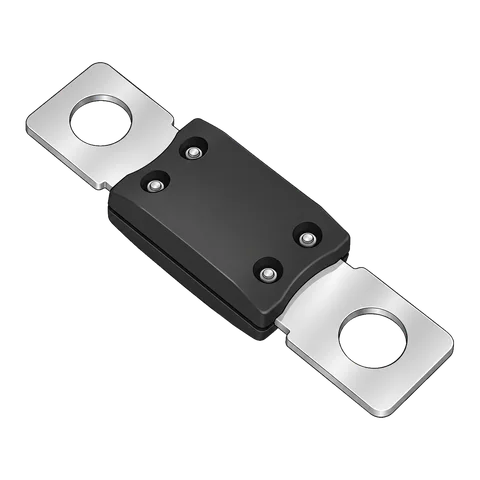
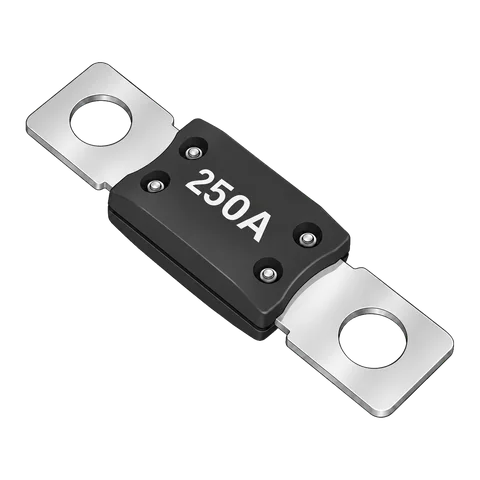
Einkaufsliste: Bild für Sicherung 250 A MEGA mit 250A-Aufdruck

diff --git a/einkaufsliste.html b/einkaufsliste.html
@@ -106,7 +106,7 @@
         <div class="wrap">
           <h2>Sicherungen &amp; Halter</h2><p class="gruppe-text">Jede Leitung braucht ihre passende Sicherung.</p>
           <div class="teile-grid">
-            <article class="teil" id="l3a2c4132"><div class="teil-bild"><img src="assets/teile/l3a2c4132.webp?v=7906ca96" alt="MIDI-Sicherungshalter 4-fach mit Sammelschiene (Symbolbild)" width="480" height="480" loading="lazy"><span>Symbolbild</span></div><h3>MIDI-Sicherungshalter 4-fach mit Sammelschiene</h3><a class="product-btn" href="/go/l3a2c4132/amazon" target="_blank" rel="sponsored noopener">Bei Amazon ansehen*</a></article><article class="teil" id="l375ffab0"><div class="teil-bild"><img src="assets/teile/l375ffab0.webp?v=a38f9c33" alt="Sicherung 20 A MIDI (Symbolbild)" width="480" height="480" loading="lazy"><span>Symbolbild</span></div><h3>Sicherung 20 A MIDI</h3><a class="product-btn" href="/go/l375ffab0/amazon" target="_blank" rel="sponsored noopener">Bei Amazon ansehen*</a></article><article class="teil" id="laf25c308"><div class="teil-bild"><img src="assets/teile/laf25c308.webp?v=ab091605" alt="Sicherung 30 A MIDI (Symbolbild)" width="480" height="480" loading="lazy"><span>Symbolbild</span></div><h3>Sicherung 30 A MIDI</h3><a class="product-btn" href="/go/laf25c308/amazon" target="_blank" rel="sponsored noopener">Bei Amazon ansehen*</a></article><article class="teil" id="lafc8c0a5"><div class="teil-bild"><img src="assets/teile/lafc8c0a5.webp?v=e2af2a5c" alt="Sicherung 60 A MIDI (Symbolbild)" width="480" height="480" loading="lazy"><span>Symbolbild</span></div><h3>Sicherung 60 A MIDI</h3><a class="product-btn" href="/go/lafc8c0a5/amazon" target="_blank" rel="sponsored noopener">Bei Amazon ansehen*</a></article><article class="teil" id="l2a4fa993"><div class="teil-bild"><img src="assets/teile/l2a4fa993.webp?v=d04e5171" alt="Sicherung 80 A MIDI (Symbolbild)" width="480" height="480" loading="lazy"><span>Symbolbild</span></div><h3>Sicherung 80 A MIDI</h3><a class="product-btn" href="/go/l2a4fa993/amazon" target="_blank" rel="sponsored noopener">Bei Amazon ansehen*</a></article><article class="teil" id="l34955105"><div class="teil-bild"><img src="assets/teile/l34955105.webp?v=7470c8ed" alt="Sicherung 100 A MEGA (Symbolbild)" width="480" height="480" loading="lazy"><span>Symbolbild</span></div><h3>Sicherung 100 A MEGA</h3><a class="product-btn" href="/go/l34955105/amazon" target="_blank" rel="sponsored noopener">Bei Amazon ansehen*</a></article><article class="teil" id="l05bef916"><div class="teil-bild"><img src="assets/teile/l05bef916.webp?v=4ea3605b" alt="Sicherung 125 A MEGA (Symbolbild)" width="480" height="480" loading="lazy"><span>Symbolbild</span></div><h3>Sicherung 125 A MEGA</h3><a class="product-btn" href="/go/l05bef916/amazon" target="_blank" rel="sponsored noopener">Bei Amazon ansehen*</a></article><article class="teil" id="l0fc5cf12"><div class="teil-bild"><img src="assets/teile/l0fc5cf12.webp?v=c7ad8592" alt="Sicherung 150 A Klasse T (Symbolbild)" width="480" height="480" loading="lazy"><span>Symbolbild</span></div><h3>Sicherung 150 A Klasse T</h3><a class="product-btn" href="/go/l0fc5cf12/amazon" target="_blank" rel="sponsored noopener">Bei Amazon ansehen*</a></article><article class="teil" id="l9ac77371"><div class="teil-bild"><img src="assets/teile/l9ac77371.webp?v=2ceb6a5e" alt="Sicherung 150 A MEGA (Symbolbild)" width="480" height="480" loading="lazy"><span>Symbolbild</span></div><h3>Sicherung 150 A MEGA</h3><a class="product-btn" href="/go/l9ac77371/amazon" target="_blank" rel="sponsored noopener">Bei Amazon ansehen*</a></article><article class="teil" id="laf612964"><div class="teil-bild"><img src="assets/teile/laf612964.webp?v=8437ad65" alt="Sicherung 200 A MEGA (Symbolbild)" width="480" height="480" loading="lazy"><span>Symbolbild</span></div><h3>Sicherung 200 A MEGA</h3><a class="product-btn" href="/go/laf612964/amazon" target="_blank" rel="sponsored noopener">Bei Amazon ansehen*</a></article><article class="teil" id="l7317daa7"><div class="teil-bild"><img src="assets/teile/l7317daa7.webp?v=9c0c19fc" alt="Sicherung 225 A Klasse T (Symbolbild)" width="480" height="480" loading="lazy"><span>Symbolbild</span></div><h3>Sicherung 225 A Klasse T</h3><a class="product-btn" href="/go/l7317daa7/amazon" target="_blank" rel="sponsored noopener">Bei Amazon ansehen*</a></article><article class="teil" id="le561ec30"><div class="teil-bild"><img src="assets/teile/le561ec30.webp?v=99f95e50" alt="Sicherung 225 A MEGA (Symbolbild)" width="480" height="480" loading="lazy"><span>Symbolbild</span></div><h3>Sicherung 225 A MEGA</h3><a class="product-btn" href="/go/le561ec30/amazon" target="_blank" rel="sponsored noopener">Bei Amazon ansehen*</a></article><article class="teil" id="lfc280a8e"><div class="teil-bild"><img src="assets/teile/lfc280a8e.webp?v=1f402ada" alt="Sicherung 250 A Klasse T (Symbolbild)" width="480" height="480" loading="lazy"><span>Symbolbild</span></div><h3>Sicherung 250 A Klasse T</h3><a class="product-btn" href="/go/lfc280a8e/amazon" target="_blank" rel="sponsored noopener">Bei Amazon ansehen*</a></article><article class="teil" id="lb0905d3d"><div class="teil-bild"><img src="assets/teile/lb0905d3d.webp?v=fe1b621b" alt="Sicherung 250 A MEGA (Symbolbild)" width="480" height="480" loading="lazy"><span>Symbolbild</span></div><h3>Sicherung 250 A MEGA</h3><a class="product-btn" href="/go/lb0905d3d/amazon" target="_blank" rel="sponsored noopener">Bei Amazon ansehen*</a></article><article class="teil" id="l9b912eab"><div class="teil-bild"><img src="assets/teile/l9b912eab.webp?v=fe1b621b" alt="Sicherung 300 A MEGA (Symbolbild)" width="480" height="480" loading="lazy"><span>Symbolbild</span></div><h3>Sicherung 300 A MEGA</h3><a class="product-btn" href="/go/l9b912eab/amazon" target="_blank" rel="sponsored noopener">Bei Amazon ansehen*</a></article><article class="teil" id="lf3bb8b84"><div class="teil-bild"><img src="assets/teile/lf3bb8b84.webp?v=5cc62de4" alt="Sicherung 350 A Klasse T (Symbolbild)" width="480" height="480" loading="lazy"><span>Symbolbild</span></div><h3>Sicherung 350 A Klasse T</h3><a class="product-btn" href="/go/lf3bb8b84/amazon" target="_blank" rel="sponsored noopener">Bei Amazon ansehen*</a></article><article class="teil" id="lad38f99a"><div class="teil-bild"><img src="assets/teile/lad38f99a.webp?v=d82100f2" alt="Sicherung Klasse-T-Halter bis 200 A (Symbolbild)" width="480" height="480" loading="lazy"><span>Symbolbild</span></div><h3>Sicherung Klasse-T-Halter bis 200 A</h3><a class="product-btn" href="/go/lad38f99a/amazon" target="_blank" rel="sponsored noopener">Bei Amazon ansehen*</a></article><article class="teil" id="l50ed28ad"><div class="teil-bild"><img src="assets/teile/l50ed28ad.webp?v=d82100f2" alt="Sicherung Klasse-T-Sicherungshalter (Symbolbild)" width="480" height="480" loading="lazy"><span>Symbolbild</span></div><h3>Sicherung Klasse-T-Sicherungshalter</h3><a class="product-btn" href="/go/l50ed28ad/amazon" target="_blank" rel="sponsored noopener">Bei Amazon ansehen*</a></article><article class="teil" id="l4f0e743e"><div class="teil-bild"><img src="assets/teile/l4f0e743e.webp?v=aafb087d" alt="Sicherung MEGA-Sicherungshalter (Symbolbild)" width="480" height="480" loading="lazy"><span>Symbolbild</span></div><h3>Sicherung MEGA-Sicherungshalter</h3><a class="product-btn" href="/go/l4f0e743e/amazon" target="_blank" rel="sponsored noopener">Bei Amazon ansehen*</a></article><article class="teil" id="ld64c7f2d"><div class="teil-bild"><img src="assets/teile/ld64c7f2d.webp?v=f7b561c2" alt="Sicherung MIDI-Sicherungshalter (Symbolbild)" width="480" height="480" loading="lazy"><span>Symbolbild</span></div><h3>Sicherung MIDI-Sicherungshalter</h3><a class="product-btn" href="/go/ld64c7f2d/amazon" target="_blank" rel="sponsored noopener">Bei Amazon ansehen*</a></article>
+            <article class="teil" id="l3a2c4132"><div class="teil-bild"><img src="assets/teile/l3a2c4132.webp?v=7906ca96" alt="MIDI-Sicherungshalter 4-fach mit Sammelschiene (Symbolbild)" width="480" height="480" loading="lazy"><span>Symbolbild</span></div><h3>MIDI-Sicherungshalter 4-fach mit Sammelschiene</h3><a class="product-btn" href="/go/l3a2c4132/amazon" target="_blank" rel="sponsored noopener">Bei Amazon ansehen*</a></article><article class="teil" id="l375ffab0"><div class="teil-bild"><img src="assets/teile/l375ffab0.webp?v=a38f9c33" alt="Sicherung 20 A MIDI (Symbolbild)" width="480" height="480" loading="lazy"><span>Symbolbild</span></div><h3>Sicherung 20 A MIDI</h3><a class="product-btn" href="/go/l375ffab0/amazon" target="_blank" rel="sponsored noopener">Bei Amazon ansehen*</a></article><article class="teil" id="laf25c308"><div class="teil-bild"><img src="assets/teile/laf25c308.webp?v=ab091605" alt="Sicherung 30 A MIDI (Symbolbild)" width="480" height="480" loading="lazy"><span>Symbolbild</span></div><h3>Sicherung 30 A MIDI</h3><a class="product-btn" href="/go/laf25c308/amazon" target="_blank" rel="sponsored noopener">Bei Amazon ansehen*</a></article><article class="teil" id="lafc8c0a5"><div class="teil-bild"><img src="assets/teile/lafc8c0a5.webp?v=e2af2a5c" alt="Sicherung 60 A MIDI (Symbolbild)" width="480" height="480" loading="lazy"><span>Symbolbild</span></div><h3>Sicherung 60 A MIDI</h3><a class="product-btn" href="/go/lafc8c0a5/amazon" target="_blank" rel="sponsored noopener">Bei Amazon ansehen*</a></article><article class="teil" id="l2a4fa993"><div class="teil-bild"><img src="assets/teile/l2a4fa993.webp?v=d04e5171" alt="Sicherung 80 A MIDI (Symbolbild)" width="480" height="480" loading="lazy"><span>Symbolbild</span></div><h3>Sicherung 80 A MIDI</h3><a class="product-btn" href="/go/l2a4fa993/amazon" target="_blank" rel="sponsored noopener">Bei Amazon ansehen*</a></article><article class="teil" id="l34955105"><div class="teil-bild"><img src="assets/teile/l34955105.webp?v=7470c8ed" alt="Sicherung 100 A MEGA (Symbolbild)" width="480" height="480" loading="lazy"><span>Symbolbild</span></div><h3>Sicherung 100 A MEGA</h3><a class="product-btn" href="/go/l34955105/amazon" target="_blank" rel="sponsored noopener">Bei Amazon ansehen*</a></article><article class="teil" id="l05bef916"><div class="teil-bild"><img src="assets/teile/l05bef916.webp?v=4ea3605b" alt="Sicherung 125 A MEGA (Symbolbild)" width="480" height="480" loading="lazy"><span>Symbolbild</span></div><h3>Sicherung 125 A MEGA</h3><a class="product-btn" href="/go/l05bef916/amazon" target="_blank" rel="sponsored noopener">Bei Amazon ansehen*</a></article><article class="teil" id="l0fc5cf12"><div class="teil-bild"><img src="assets/teile/l0fc5cf12.webp?v=c7ad8592" alt="Sicherung 150 A Klasse T (Symbolbild)" width="480" height="480" loading="lazy"><span>Symbolbild</span></div><h3>Sicherung 150 A Klasse T</h3><a class="product-btn" href="/go/l0fc5cf12/amazon" target="_blank" rel="sponsored noopener">Bei Amazon ansehen*</a></article><article class="teil" id="l9ac77371"><div class="teil-bild"><img src="assets/teile/l9ac77371.webp?v=2ceb6a5e" alt="Sicherung 150 A MEGA (Symbolbild)" width="480" height="480" loading="lazy"><span>Symbolbild</span></div><h3>Sicherung 150 A MEGA</h3><a class="product-btn" href="/go/l9ac77371/amazon" target="_blank" rel="sponsored noopener">Bei Amazon ansehen*</a></article><article class="teil" id="laf612964"><div class="teil-bild"><img src="assets/teile/laf612964.webp?v=8437ad65" alt="Sicherung 200 A MEGA (Symbolbild)" width="480" height="480" loading="lazy"><span>Symbolbild</span></div><h3>Sicherung 200 A MEGA</h3><a class="product-btn" href="/go/laf612964/amazon" target="_blank" rel="sponsored noopener">Bei Amazon ansehen*</a></article><article class="teil" id="l7317daa7"><div class="teil-bild"><img src="assets/teile/l7317daa7.webp?v=9c0c19fc" alt="Sicherung 225 A Klasse T (Symbolbild)" width="480" height="480" loading="lazy"><span>Symbolbild</span></div><h3>Sicherung 225 A Klasse T</h3><a class="product-btn" href="/go/l7317daa7/amazon" target="_blank" rel="sponsored noopener">Bei Amazon ansehen*</a></article><article class="teil" id="le561ec30"><div class="teil-bild"><img src="assets/teile/le561ec30.webp?v=99f95e50" alt="Sicherung 225 A MEGA (Symbolbild)" width="480" height="480" loading="lazy"><span>Symbolbild</span></div><h3>Sicherung 225 A MEGA</h3><a class="product-btn" href="/go/le561ec30/amazon" target="_blank" rel="sponsored noopener">Bei Amazon ansehen*</a></article><article class="teil" id="lfc280a8e"><div class="teil-bild"><img src="assets/teile/lfc280a8e.webp?v=1f402ada" alt="Sicherung 250 A Klasse T (Symbolbild)" width="480" height="480" loading="lazy"><span>Symbolbild</span></div><h3>Sicherung 250 A Klasse T</h3><a class="product-btn" href="/go/lfc280a8e/amazon" target="_blank" rel="sponsored noopener">Bei Amazon ansehen*</a></article><article class="teil" id="lb0905d3d"><div class="teil-bild"><img src="assets/teile/lb0905d3d.webp?v=b5d096d7" alt="Sicherung 250 A MEGA (Symbolbild)" width="480" height="480" loading="lazy"><span>Symbolbild</span></div><h3>Sicherung 250 A MEGA</h3><a class="product-btn" href="/go/lb0905d3d/amazon" target="_blank" rel="sponsored noopener">Bei Amazon ansehen*</a></article><article class="teil" id="l9b912eab"><div class="teil-bild"><img src="assets/teile/l9b912eab.webp?v=fe1b621b" alt="Sicherung 300 A MEGA (Symbolbild)" width="480" height="480" loading="lazy"><span>Symbolbild</span></div><h3>Sicherung 300 A MEGA</h3><a class="product-btn" href="/go/l9b912eab/amazon" target="_blank" rel="sponsored noopener">Bei Amazon ansehen*</a></article><article class="teil" id="lf3bb8b84"><div class="teil-bild"><img src="assets/teile/lf3bb8b84.webp?v=5cc62de4" alt="Sicherung 350 A Klasse T (Symbolbild)" width="480" height="480" loading="lazy"><span>Symbolbild</span></div><h3>Sicherung 350 A Klasse T</h3><a class="product-btn" href="/go/lf3bb8b84/amazon" target="_blank" rel="sponsored noopener">Bei Amazon ansehen*</a></article><article class="teil" id="lad38f99a"><div class="teil-bild"><img src="assets/teile/lad38f99a.webp?v=d82100f2" alt="Sicherung Klasse-T-Halter bis 200 A (Symbolbild)" width="480" height="480" loading="lazy"><span>Symbolbild</span></div><h3>Sicherung Klasse-T-Halter bis 200 A</h3><a class="product-btn" href="/go/lad38f99a/amazon" target="_blank" rel="sponsored noopener">Bei Amazon ansehen*</a></article><article class="teil" id="l50ed28ad"><div class="teil-bild"><img src="assets/teile/l50ed28ad.webp?v=d82100f2" alt="Sicherung Klasse-T-Sicherungshalter (Symbolbild)" width="480" height="480" loading="lazy"><span>Symbolbild</span></div><h3>Sicherung Klasse-T-Sicherungshalter</h3><a class="product-btn" href="/go/l50ed28ad/amazon" target="_blank" rel="sponsored noopener">Bei Amazon ansehen*</a></article><article class="teil" id="l4f0e743e"><div class="teil-bild"><img src="assets/teile/l4f0e743e.webp?v=aafb087d" alt="Sicherung MEGA-Sicherungshalter (Symbolbild)" width="480" height="480" loading="lazy"><span>Symbolbild</span></div><h3>Sicherung MEGA-Sicherungshalter</h3><a class="product-btn" href="/go/l4f0e743e/amazon" target="_blank" rel="sponsored noopener">Bei Amazon ansehen*</a></article><article class="teil" id="ld64c7f2d"><div class="teil-bild"><img src="assets/teile/ld64c7f2d.webp?v=f7b561c2" alt="Sicherung MIDI-Sicherungshalter (Symbolbild)" width="480" height="480" loading="lazy"><span>Symbolbild</span></div><h3>Sicherung MIDI-Sicherungshalter</h3><a class="product-btn" href="/go/ld64c7f2d/amazon" target="_blank" rel="sponsored noopener">Bei Amazon ansehen*</a></article>
           </div>
         </div>
       </section>
